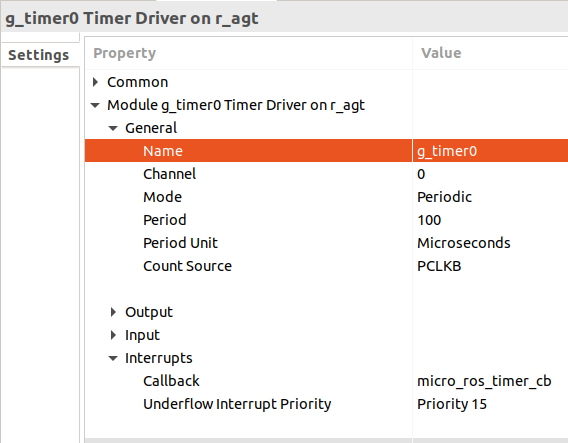
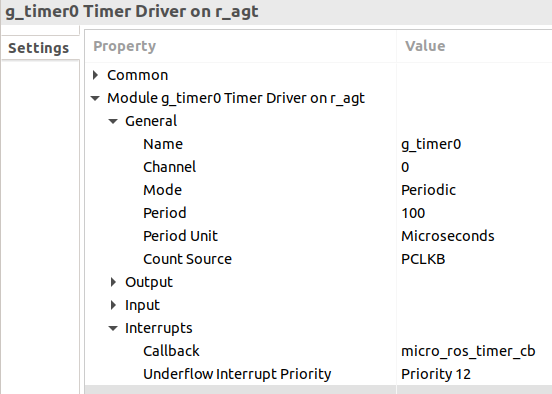
Increase timer priority on readme

Changed region(s): [[0.0, 0.0, 1.0, 1.0], [0.7083, 0.6396, 0.8315, 0.6701]]

diff --git a/README.md b/README.md
@@ -113,7 +113,7 @@ cd ../micro_ros_renesas2estudio_component/library_generation && ./library_genera
       3. Modify the clock period unit on the component properties (`Module g_timer0 Timer Driver on r_agt -> General -> Period Unit`) to `Microseconds`
       4. Modify the count source on the component properties (`Module g_timer0 Timer Driver on r_agt -> General -> Count Source`) to `PCLKB`
       5. Modify the interrupt callback on the component properties (`Module g_timer0 Timer Driver on r_agt -> Interrupt -> Callback`) to `micro_ros_timer_cb`
-      6. Modify the underflow interrupt priority on the component properties (`Module g_timer0 Timer Driver on r_agt -> Interrupt -> Underflow Interrupt Priority`) to `Priority 15`
+      6. Modify the underflow interrupt priority on the component properties (`Module g_timer0 Timer Driver on r_agt -> Interrupt -> Underflow Interrupt Priority`) to `Priority 12`
 
          ![image](.images/Timer_configuration.png)
 
